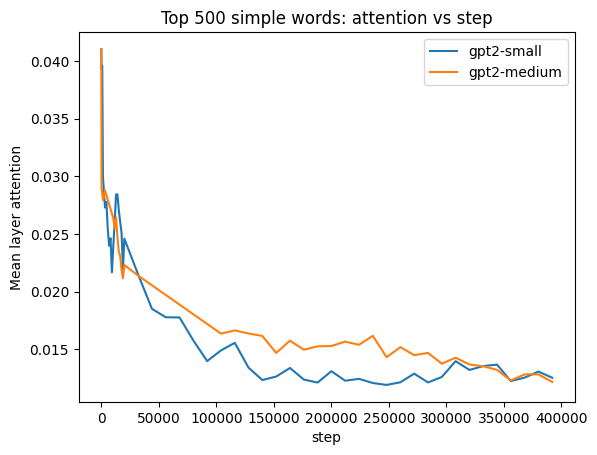
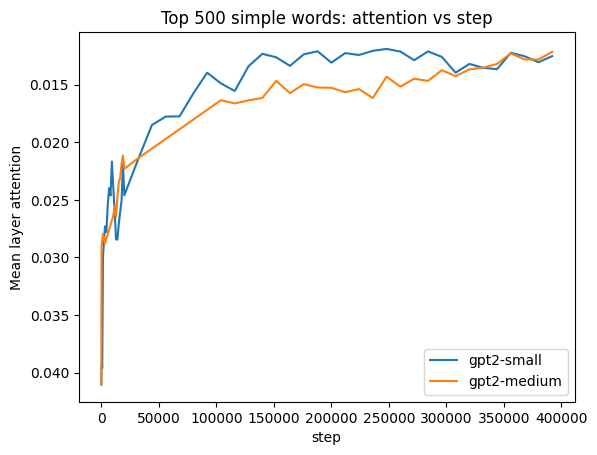
josephine updated code

diff --git a/src/experiments/plot.py b/src/experiments/plot.py
@@ -22,6 +22,14 @@ def load_wordbank_aoa(csv_path: str) -> Dict[str, float]:
         aoa = math.nan
         for col in aoa_cols_sorted:
             try:
+                v = float(col)
+                v = float(row[col])
+            except (TypeError, ValueError):
+                try:
+                    v = float(row[col])
+                except (TypeError, ValueError):
+                    continue
+            try:
                 v = float(row[col])
             except (TypeError, ValueError):
                 continue
@@ -340,6 +348,7 @@ def main():
             plt.xlabel(f"{label_type_small or 'step'}")
             plt.ylabel("Mean layer attention")
             plt.title(f"Top {k} simple words: attention vs {label_type_small or 'step'}")
+            plt.gca().invert_yaxis()
             plt.legend()
             out_path = os.path.join(args.out_dir, f"avg_attention_top{k}.png")
             fig.savefig(out_path, bbox_inches="tight")
@@ -496,6 +505,99 @@ def main():
             fout.write(f"  Side-by-side plots saved for {n_plotted} words.\n")
         else:
             fout.write("  No words for child vs LLM per-word plots.\n")
+
+        fout.write("\nChild trajectories vs LLM attention (per word):\n")
+        if common_for_aoa:
+            max_words_side_by_side_att = 50
+            n_plotted_att = 0
+
+            def normalize_x_att(xs: np.ndarray) -> np.ndarray:
+                xs = np.array(xs, dtype=float)
+                if xs.size == 0:
+                    return xs
+                denom = xs[-1] - xs[0]
+                if denom <= 0:
+                    return np.zeros_like(xs)
+                return (xs - xs[0]) / denom
+
+            months_arr_att = np.array(months, dtype=float)
+            if months_arr_att.size > 1:
+                months_norm_att = (months_arr_att - months_arr_att.min()) / (months_arr_att.max() - months_arr_att.min())
+            else:
+                months_norm_att = np.zeros_like(months_arr_att)
+
+            for w in common_for_aoa:
+                if w not in word_to_curve:
+                    continue
+                child_curve = word_to_curve[w]
+                if not np.isfinite(child_curve).any():
+                    continue
+                a_small = np.array(small_act[w], dtype=float)
+                a_medium = np.array(medium_act[w], dtype=float)
+                if not (np.isfinite(a_small).any() or np.isfinite(a_medium).any()):
+                    continue
+
+                steps_small_arr = np.array(steps_small, dtype=float)
+                steps_medium_arr = np.array(steps_medium, dtype=float)
+
+                fig, axes = plt.subplots(1, 3, figsize=(12, 3))
+
+                if np.isfinite(a_small).any():
+                    axes[0].plot(steps_small_arr, a_small, label="gpt2-small")
+                if np.isfinite(a_medium).any():
+                    axes[0].plot(steps_medium_arr, a_medium, label="gpt2-medium")
+
+                axes[0].set_xlabel(label_type_small or "step")
+                axes[0].set_ylabel("Mean layer attention")
+                axes[0].set_title(f"{w} - LLM attention")
+                axes[0].invert_yaxis()
+                axes[0].legend()
+
+                axes[1].plot(months, child_curve, marker="o")
+                axes[1].axhline(0.5, linestyle="--", linewidth=1, color="cornflowerblue")
+                axes[1].set_xlabel("Age (months)")
+                axes[1].set_ylabel("Proportion producing")
+                axes[1].set_ylim(0.0, 1.0)
+                axes[1].set_title(f"{w} - children")
+
+                ax3 = axes[2]
+                ax3b = ax3.twinx()
+
+                if np.isfinite(a_small).any():
+                    x_small_norm = normalize_x_att(steps_small_arr)
+                    ax3.plot(x_small_norm, a_small, label="gpt2-small")
+                if np.isfinite(a_medium).any():
+                    x_medium_norm = normalize_x_att(steps_medium_arr)
+                    ax3.plot(x_medium_norm, a_medium, label="gpt2-medium")
+
+                child_mask = np.isfinite(child_curve)
+                if child_mask.any():
+                    ax3b.plot(months_norm_att[child_mask], child_curve[child_mask], marker="o", color="green", label="children")
+
+                ax3.set_xlim(0.0, 1.0)
+                ax3.set_xlabel("Normalized timeline")
+                ax3.set_ylabel("Mean layer attention")
+                ax3b.set_ylabel("Proportion producing")
+                ax3.set_title(f"{w} - normalized overlay (attention)")
+                ax3.invert_yaxis()
+
+                handles1, labels1 = ax3.get_legend_handles_labels()
+                handles2, labels2 = ax3b.get_legend_handles_labels()
+                if handles1 or handles2:
+                    ax3.legend(handles1 + handles2, labels1 + labels2, loc="best")
+
+                fig.tight_layout()
+                safe_w = re.sub(r"[^A-Za-z0-9]+", "_", w).strip("_")
+                out_path_word_att = os.path.join(args.out_dir, f"word_{safe_w}_child_vs_llm_attention.png")
+                fig.savefig(out_path_word_att, bbox_inches="tight")
+                plt.close(fig)
+                n_plotted_att += 1
+                if n_plotted_att >= max_words_side_by_side_att:
+                    break
+
+            fout.write(f"  Side-by-side attention plots saved for {n_plotted_att} words.\n")
+        else:
+            fout.write("  No words for child vs LLM attention per-word plots.\n")
 
         fout.write("\nSurprisal trajectories stratified by child AoA bins:\n")
         bins = [("early", 16, 20), ("mid", 21, 24), ("late", 25, 30)]
